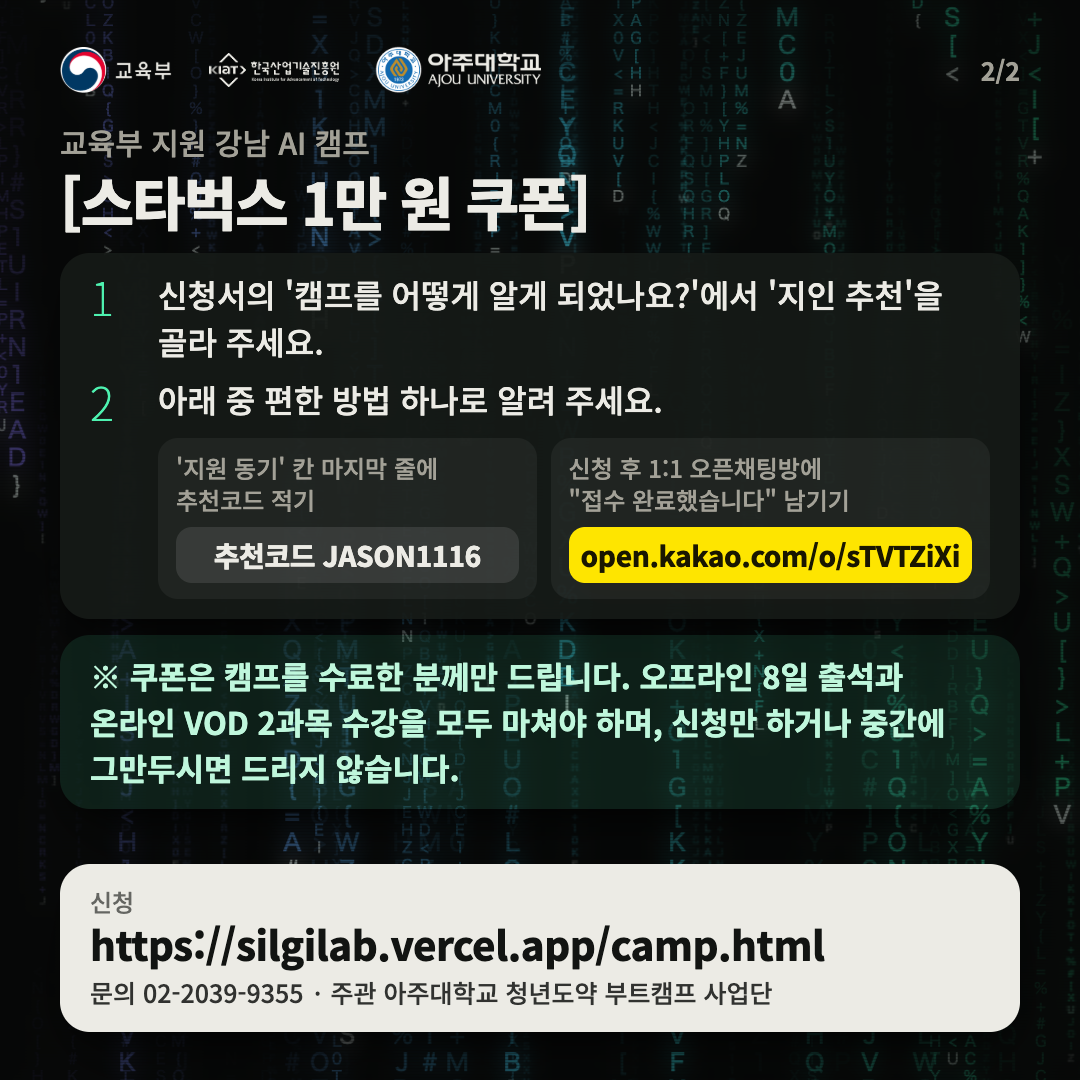
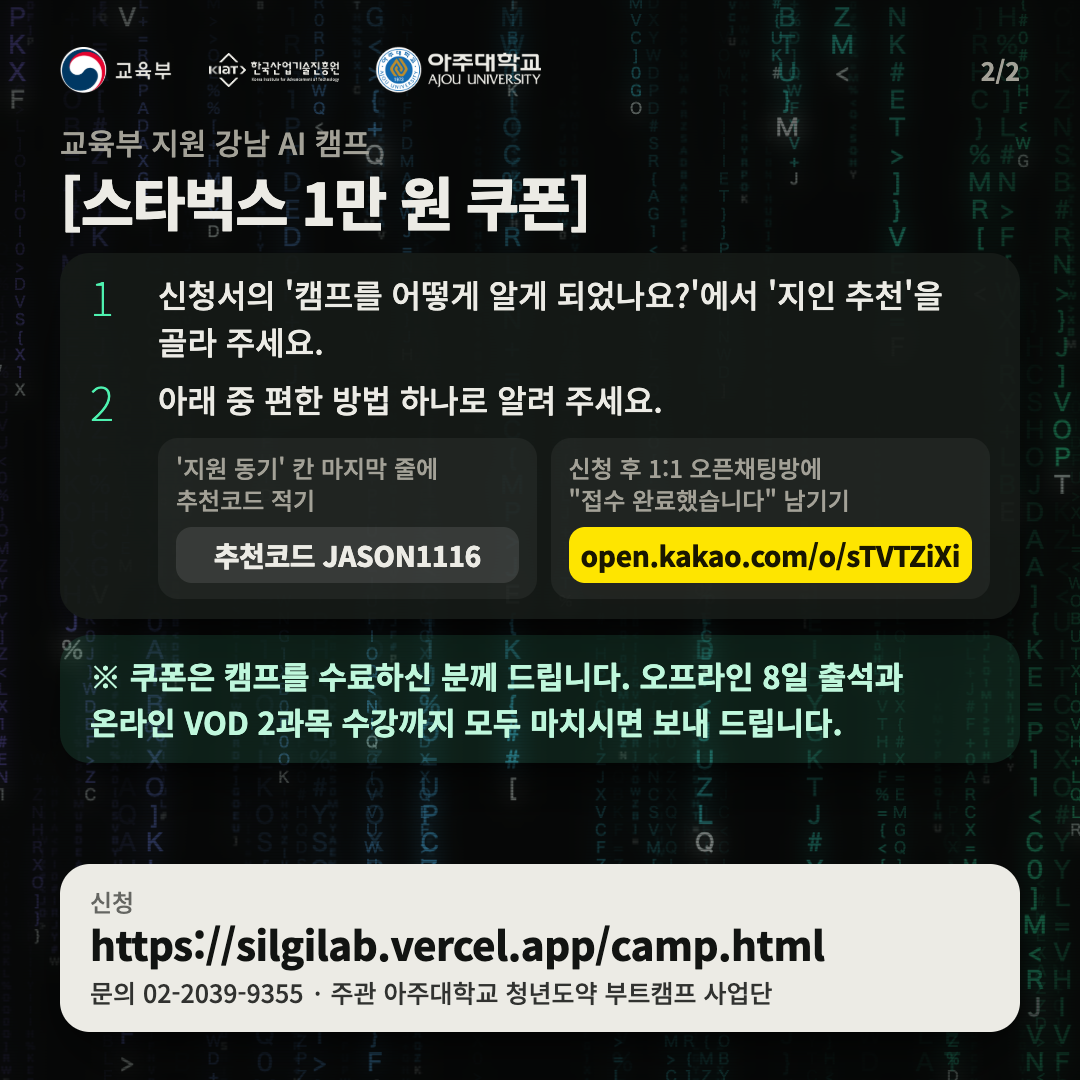
Coupon condition worded positively
Same condition (finish the camp: 8 days attendance and both VOD courses), now said as what earns the coupon instead of what loses it. Pages, camp.txt and share cards.

diff --git a/source/cards.html b/source/cards.html
@@ -155,7 +155,7 @@ h1 .tag{font-size:34px;font-weight:500;color:var(--mute);letter-spacing:0;margin
   <div class="coupon glass">
     <h2>[스타벅스 1만 원 쿠폰]</h2>
     <p>신청서에서 <b>'지인 추천'</b>을 고르고, '지원 동기' 마지막 줄에 "추천코드 JASON1116"을 적거나 1:1 오픈채팅방에 "접수 완료했습니다"라고 남겨 주세요.</p>
-    <p class="cond">※ 쿠폰은 캠프를 수료한 분께만 드립니다.</p>
+    <p class="cond">※ 쿠폰은 8일 출석과 VOD 2과목까지 마치고 수료하시면 드립니다.</p>
   </div>
   <div class="cta">
     <div class="lab">신청</div>
@@ -200,7 +200,7 @@ h1 .tag{font-size:34px;font-weight:500;color:var(--mute);letter-spacing:0;margin
       <div class="opt"><p>신청 후 1:1 오픈채팅방에<br>"접수 완료했습니다" 남기기</p><div class="chat">open.kakao.com/o/sTVTZiXi</div></div>
     </div>
   </div>
-  <p class="big-note">※ 쿠폰은 캠프를 수료한 분께만 드립니다. 오프라인 8일 출석과 온라인 VOD 2과목 수강을 모두 마쳐야 하며, 신청만 하거나 중간에 그만두시면 드리지 않습니다.</p>
+  <p class="big-note">※ 쿠폰은 캠프를 수료하신 분께 드립니다. 오프라인 8일 출석과 온라인 VOD 2과목 수강까지 모두 마치시면 보내 드립니다.</p>
   <div class="cta">
     <div class="lab">신청</div>
     <div class="url">https://silgilab.vercel.app/camp.html</div>

diff --git a/camp-scroll.html b/camp-scroll.html
@@ -243,7 +243,7 @@ a:focus-visible,button:focus-visible{outline:3px solid var(--accent);outline-off
     <p>신청을 마친 뒤 1:1 오픈채팅방에 "접수 완료했습니다"라고 남기기</p>
     <a class="chat" href="https://open.kakao.com/o/sTVTZiXi" target="_blank" rel="noopener" data-goatcounter-click="click-openchat" data-goatcounter-title="1:1 오픈채팅 열기">1:1 오픈채팅방 열기</a>
   </div>
-  <p class="note">※ 쿠폰은 캠프를 수료한 분께만 드립니다. 오프라인 8일 출석과 온라인 VOD 2과목 수강을 모두 마쳐야 하며, 신청만 하거나 중간에 그만두시면 드리지 않습니다.</p>
+  <p class="note">※ 쿠폰은 캠프를 수료하신 분께 드립니다. 오프라인 8일 출석과 온라인 VOD 2과목 수강까지 모두 마치시면 보내 드립니다.</p>
 </section>
 
 <div class="actions">

diff --git a/camp.html b/camp.html
@@ -182,7 +182,7 @@ footer p{margin:0 0 4px}
     <p>신청을 마친 뒤 1:1 오픈채팅방에 "접수 완료했습니다"라고 남기기</p>
     <a class="chat" href="https://open.kakao.com/o/sTVTZiXi" target="_blank" rel="noopener" data-goatcounter-click="click-openchat" data-goatcounter-title="1:1 오픈채팅 열기">1:1 오픈채팅방 열기</a>
   </div>
-  <p class="note">※ 쿠폰은 캠프를 수료한 분께만 드립니다. 오프라인 8일 출석과 온라인 VOD 2과목 수강을 모두 마쳐야 하며, 신청만 하거나 중간에 그만두시면 드리지 않습니다.</p>
+  <p class="note">※ 쿠폰은 캠프를 수료하신 분께 드립니다. 오프라인 8일 출석과 온라인 VOD 2과목 수강까지 모두 마치시면 보내 드립니다.</p>
 </section>
 
 <div class="actions">
